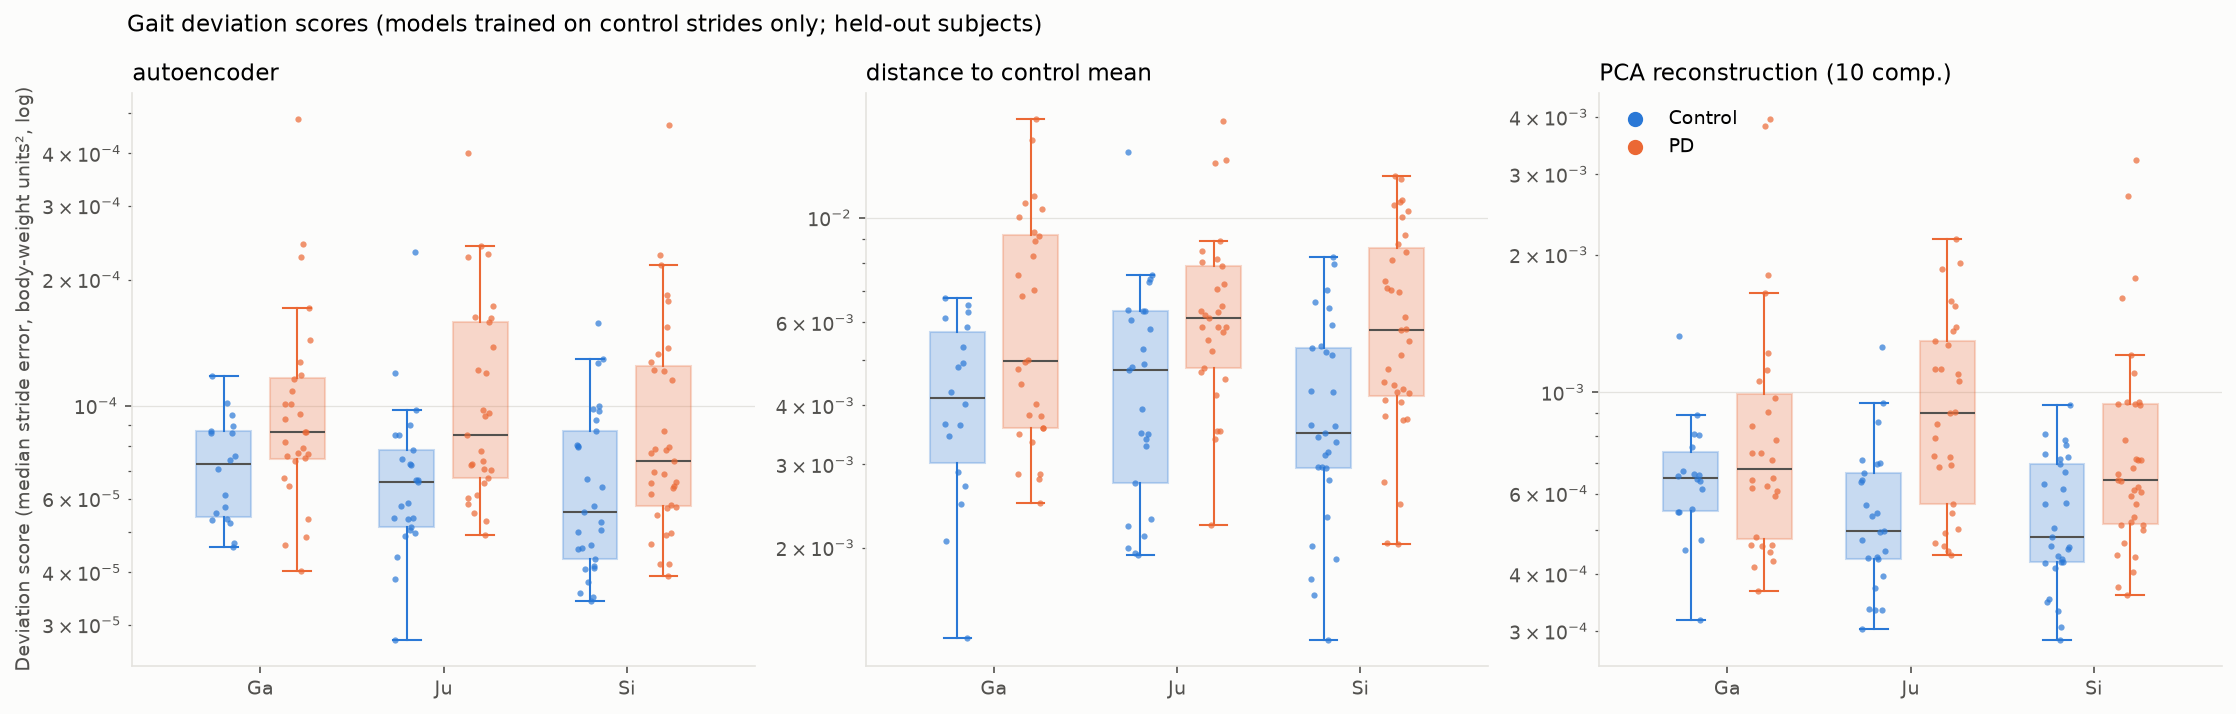
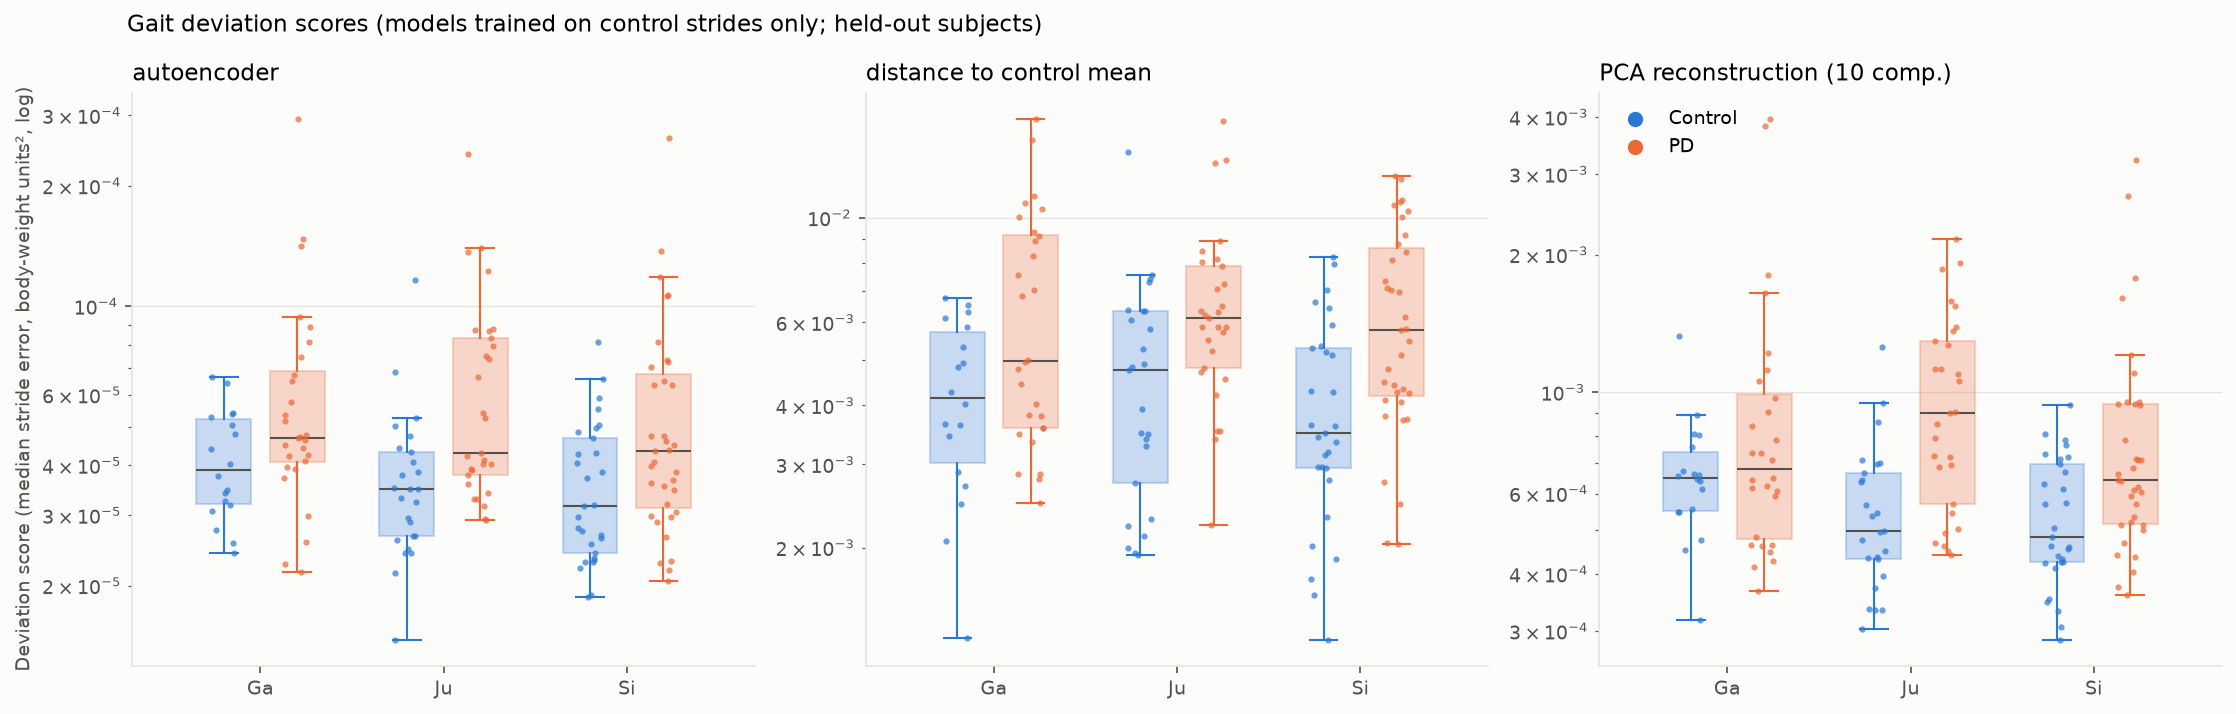
Step 9 rerun: autoencoder trained to convergence
- run_autoencoder.py: max epochs 200 -> 1000, patience 20 -> 30
- best epoch median 778 (381-999); validation MSE 8.2e-5 -> 4.6e-5

Results: AUC autoencoder 0.688 (was 0.683), distance to control mean 0.715,
PCA 0.696; autoencoder - mean distance -0.016 (95% CI -0.106 to +0.074).
The network does not beat the simple baselines. Simulated int8 AUC fell to
0.559 (int8 - float -0.135, CI -0.212 to -0.059): per-tensor 8-bit
quantization is too coarse for the better-trained model's small errors.
Severity: autoencoder vs Hoehn & Yahr rho +0.23 (p 0.031), baselines <= 0.13.

diff --git a/src/run_autoencoder.py b/src/run_autoencoder.py
@@ -33,6 +33,8 @@ SEED = 0
 N_POINTS = 100
 SENSORS = ANATOMICAL[6]  # L1, L4, L7, R1, R4, R7
 VALIDATION_FRACTION = 0.15  # of training-control subjects, for early stopping
+MAX_EPOCHS = 1000  # first run stopped at the 200 cap while still improving
+PATIENCE = 30  # epochs without validation improvement before stopping
 PCA_COMPONENTS = 10
 N_BOOT = 2000
 GRAVITY = 9.81
@@ -120,7 +122,8 @@ def run_fold(X, stride_subject, subject_ids, is_control, train, test, seed):
     fit_mask = np.isin(stride_subject, list(fit_subjects))
     val_mask = np.isin(stride_subject, list(val_subjects))
 
-    model, best_epoch, val_loss = train_autoencoder(X[fit_mask], X[val_mask], seed, device=DEVICE)
+    model, best_epoch, val_loss = train_autoencoder(X[fit_mask], X[val_mask], seed, max_epochs=MAX_EPOCHS,
+                                                    patience=PATIENCE, device=DEVICE)
     calibration = X[fit_mask][rng.choice(fit_mask.sum(), min(2000, fit_mask.sum()), replace=False)]
     quantized = FakeQuantAutoencoder(model, calibration)
 
